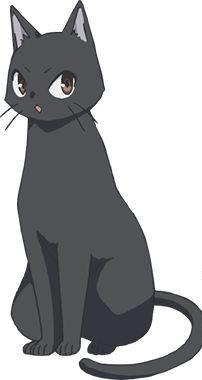
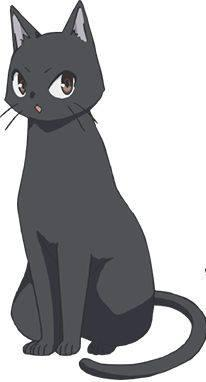
Added transparent image assets.

diff --git a/src/components/Drawer.vue b/src/components/Drawer.vue
@@ -24,7 +24,8 @@
           </q-item>
         </q-list>
       </q-list>
-      <img class="abacus" src="../assets/Abacus.jpg" alt="Abacus">
+      <!--TODO: Make the image unselectable -->
+      <img class="abacus" src="../assets/abacus-standing.png" alt="Abacus">
     </q-layout-drawer>
     
 </template>

diff --git a/src/components/Toolbar.vue b/src/components/Toolbar.vue
@@ -31,7 +31,7 @@ export default {
   },
   data () {
     return {
-      leftDrawerOpen: true
+      leftDrawerOpen: false
     }
   }
   
